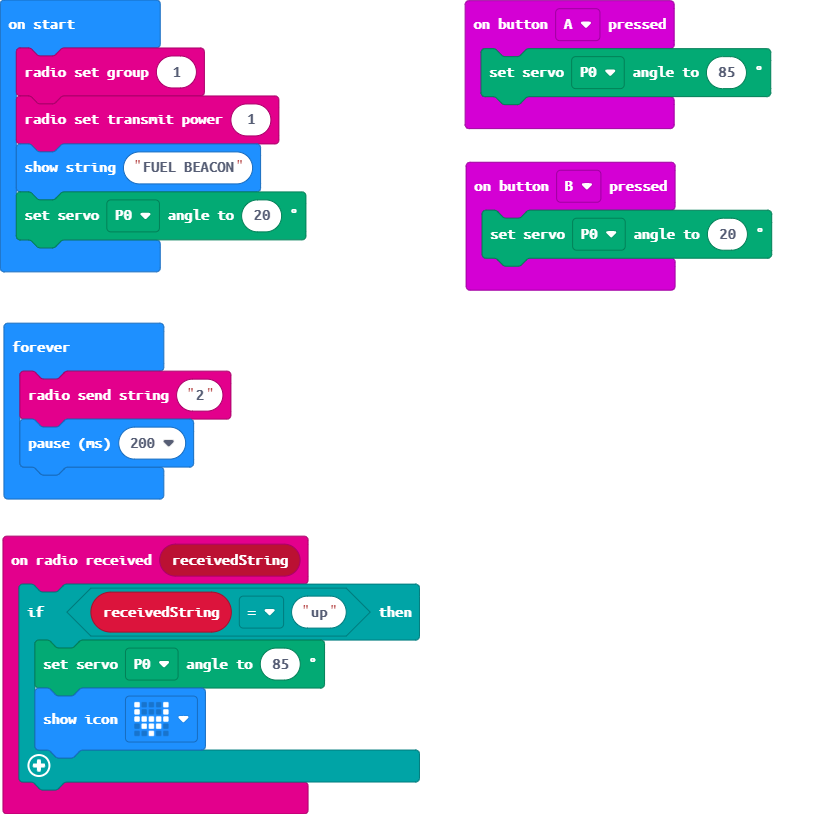
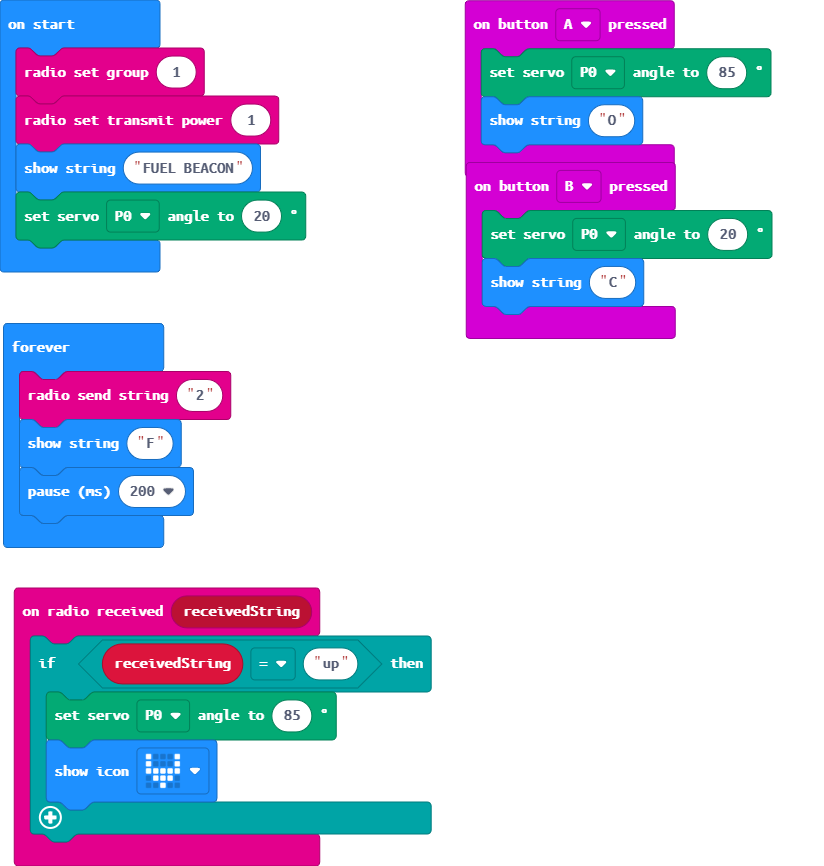
add text

Changed region(s): [[0.0, 0.3686, 0.5461, 1.0], [0.5461, 0.0, 0.9405, 0.3993], [0.0, 0.0, 0.3944, 0.3378]]

diff --git a/main.ts b/main.ts
@@ -1,5 +1,6 @@
 input.onButtonPressed(Button.A, function () {
     servos.P0.setAngle(85)
+    basic.showString("O")
 })
 radio.onReceivedString(function (receivedString) {
     if (receivedString == "up") {
@@ -9,6 +10,7 @@ radio.onReceivedString(function (receivedString) {
 })
 input.onButtonPressed(Button.B, function () {
     servos.P0.setAngle(20)
+    basic.showString("C")
 })
 radio.setGroup(1)
 radio.setTransmitPower(1)
@@ -16,5 +18,6 @@ basic.showString("FUEL BEACON")
 servos.P0.setAngle(20)
 basic.forever(function () {
     radio.sendString("2")
+    basic.showString("F")
     basic.pause(200)
 })
